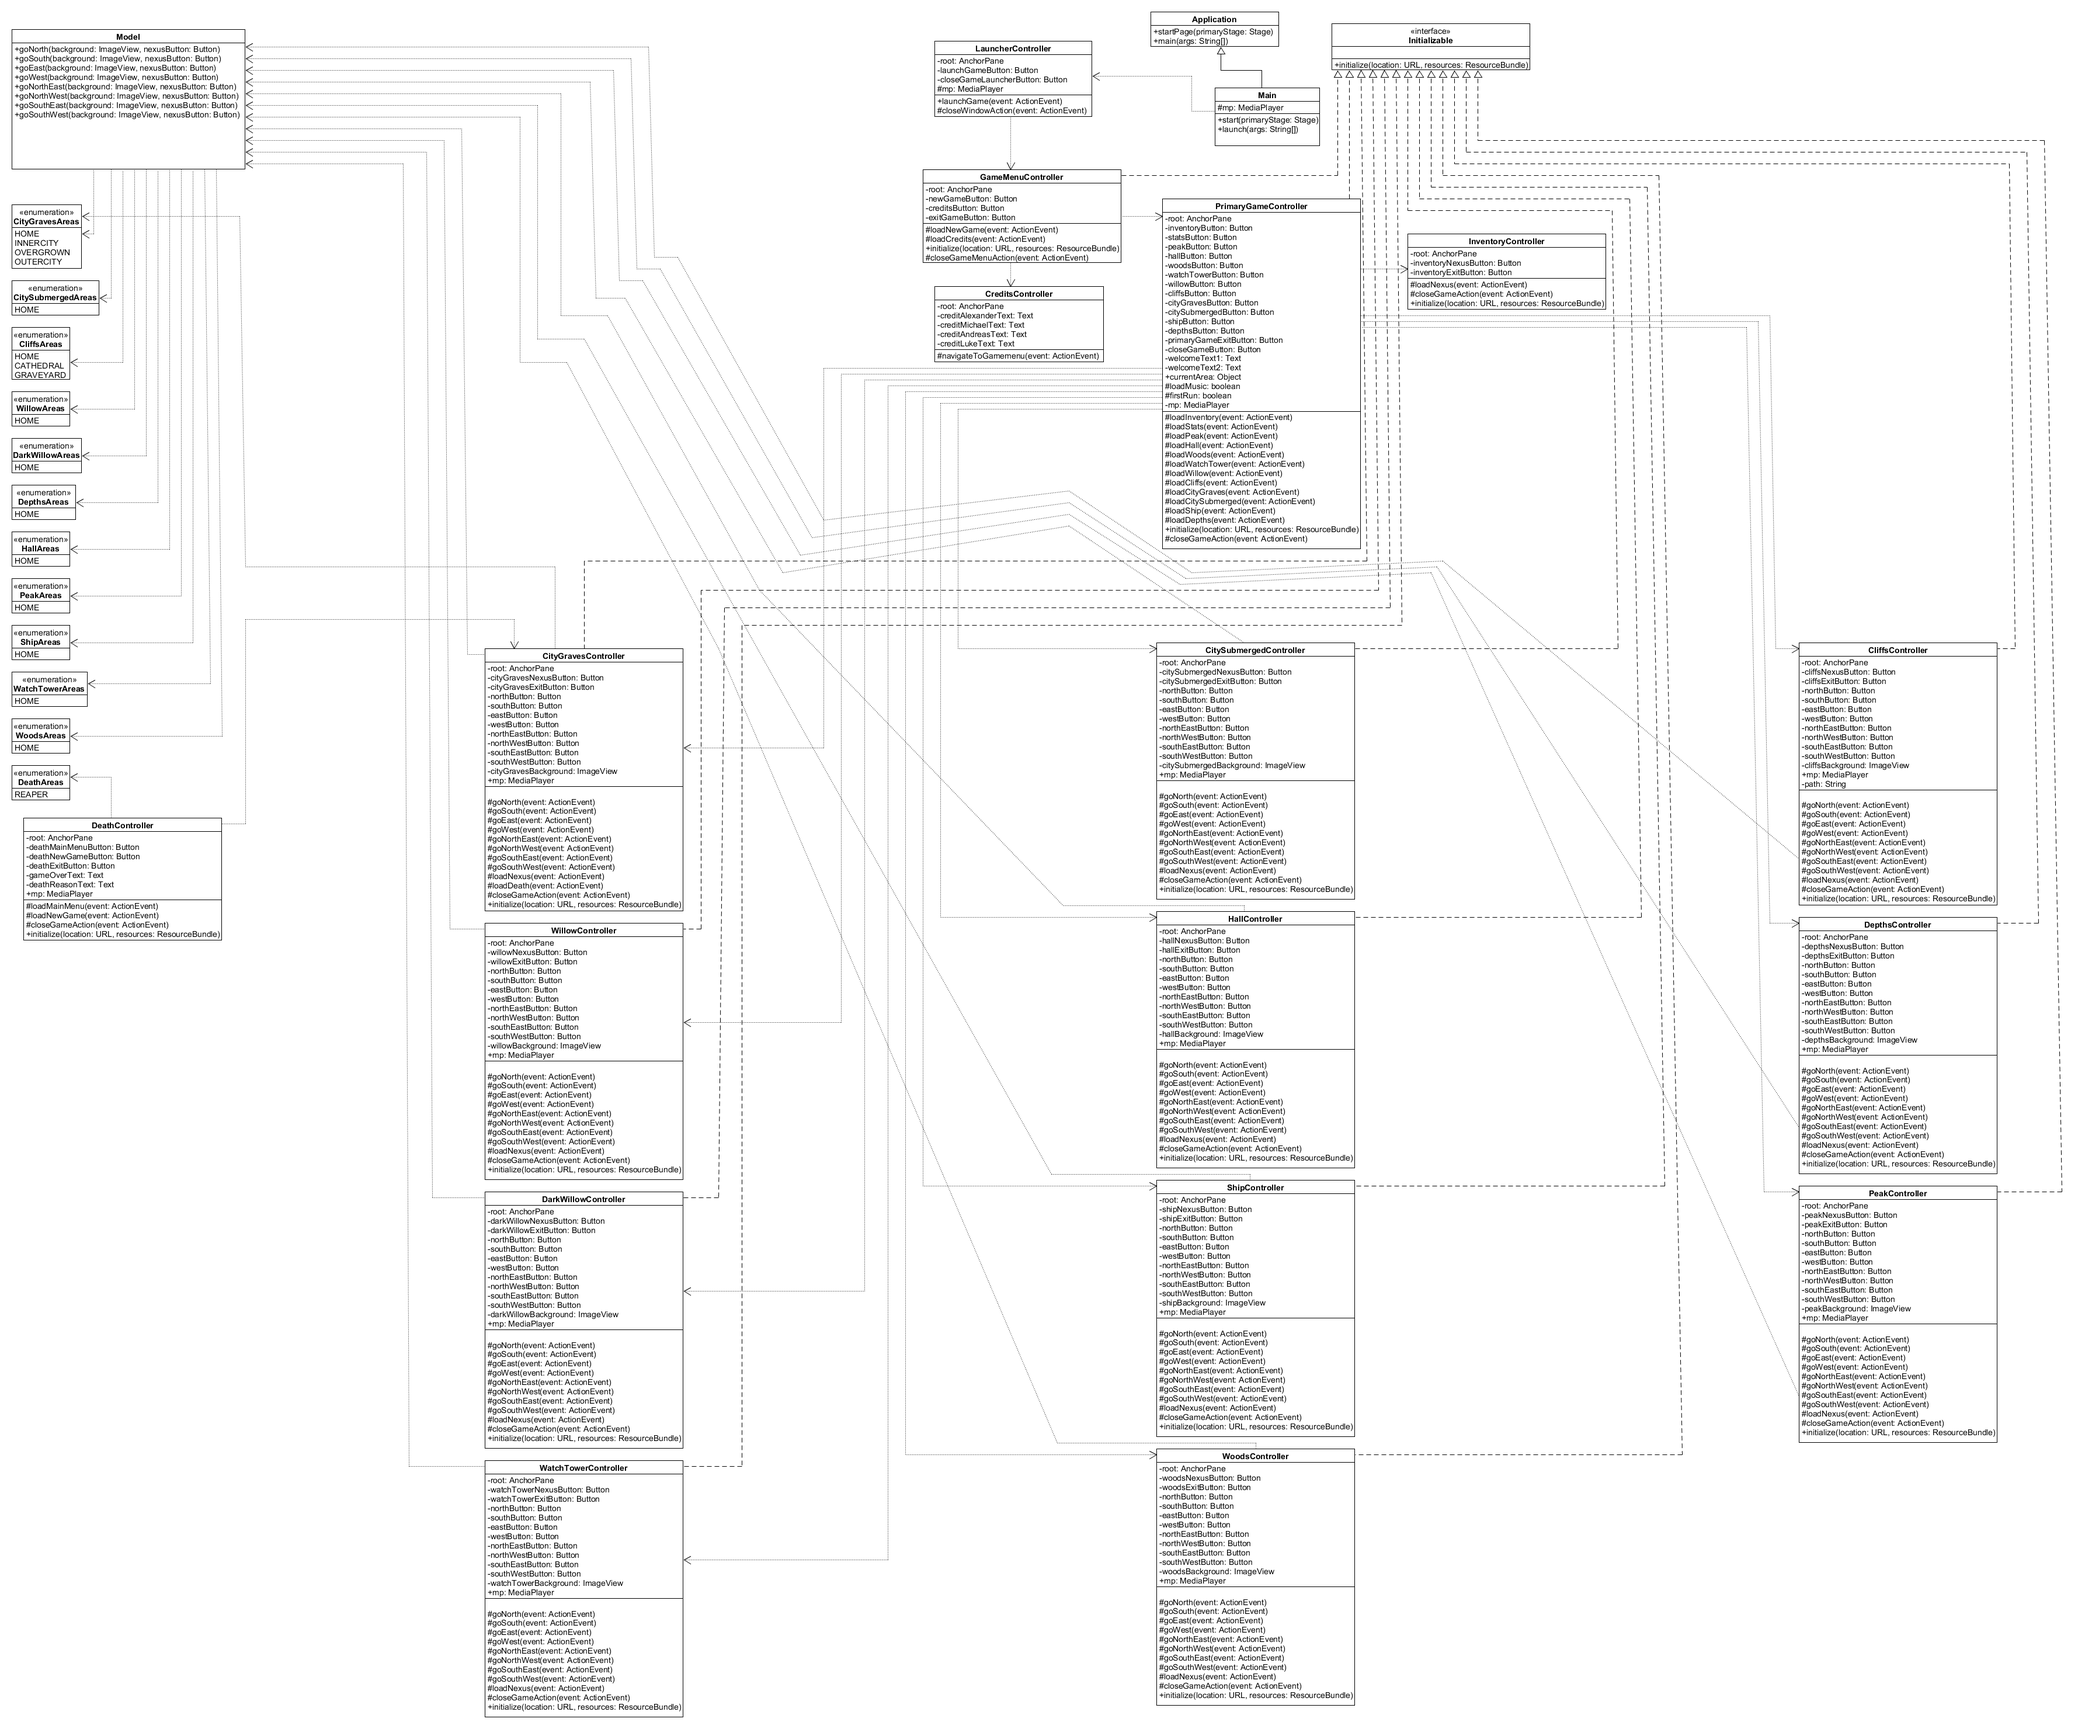
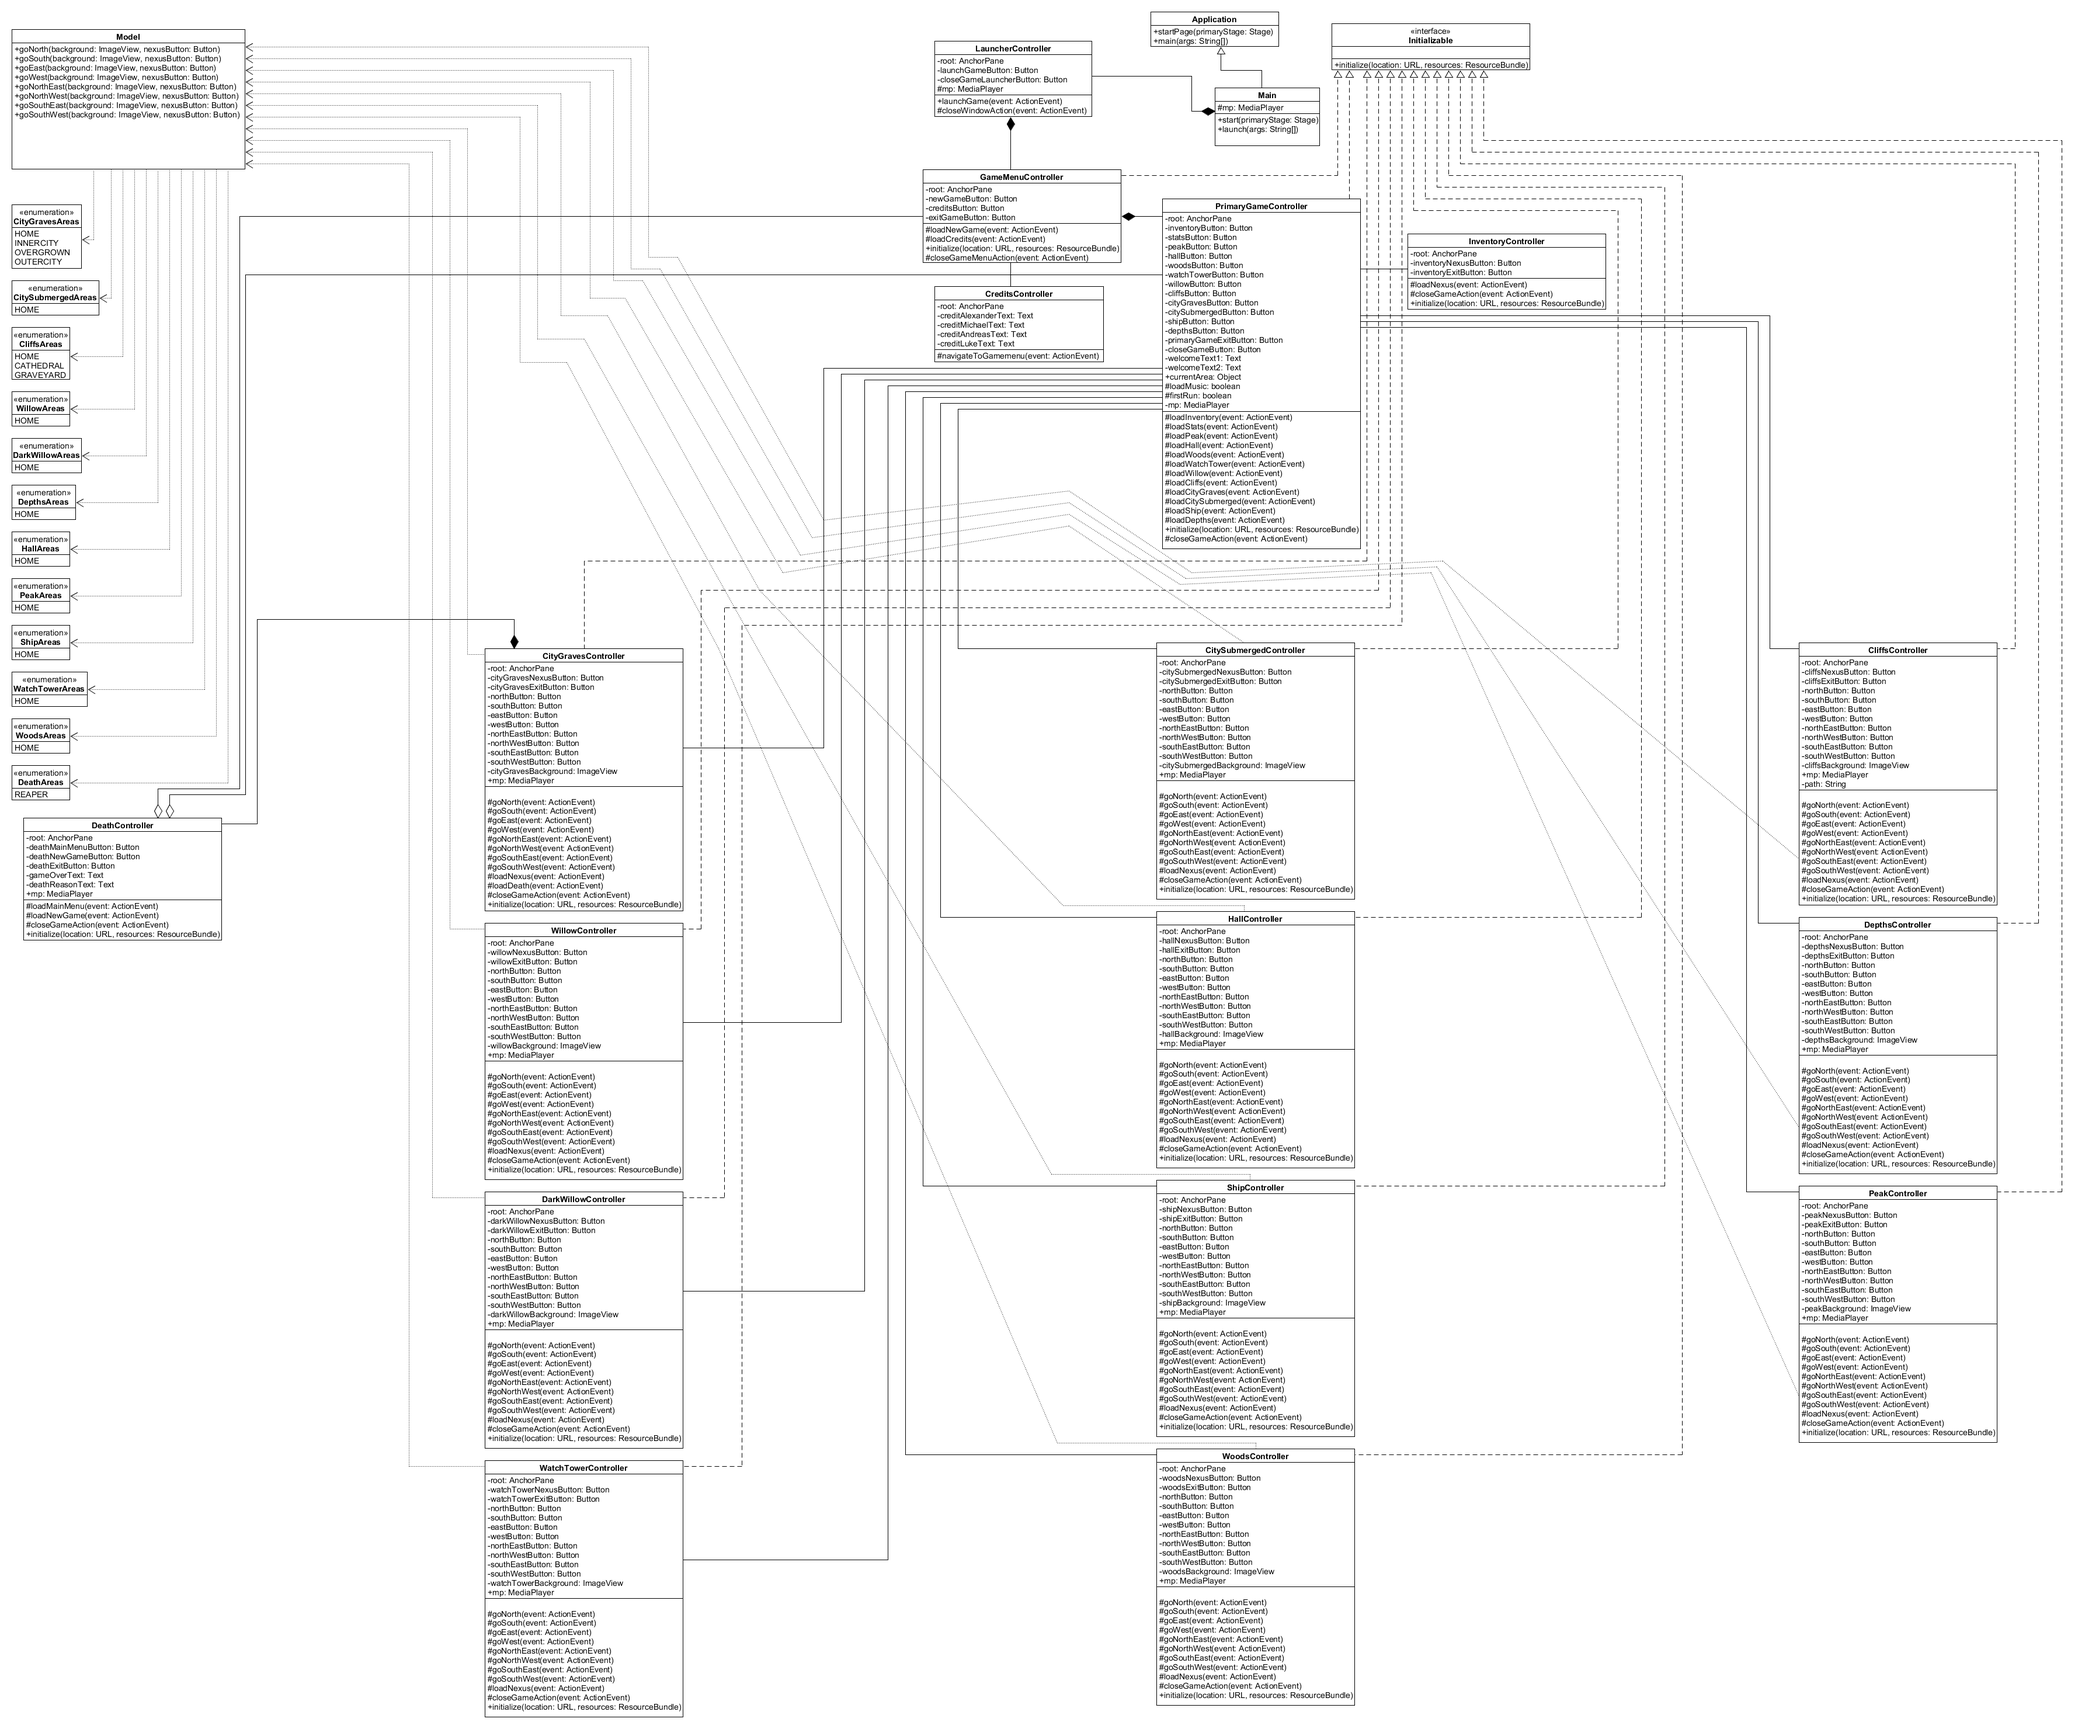
Update UML diagram relationships

Changed region(s): [[0.6529, 0.0311, 0.684, 0.0622]]

diff --git a/src/application/package-info.java b/src/application/package-info.java
@@ -1,0 +1,8 @@
+/**
+ * 
+ */
+/**
+ * @author wfn753
+ *
+ */
+package application;
